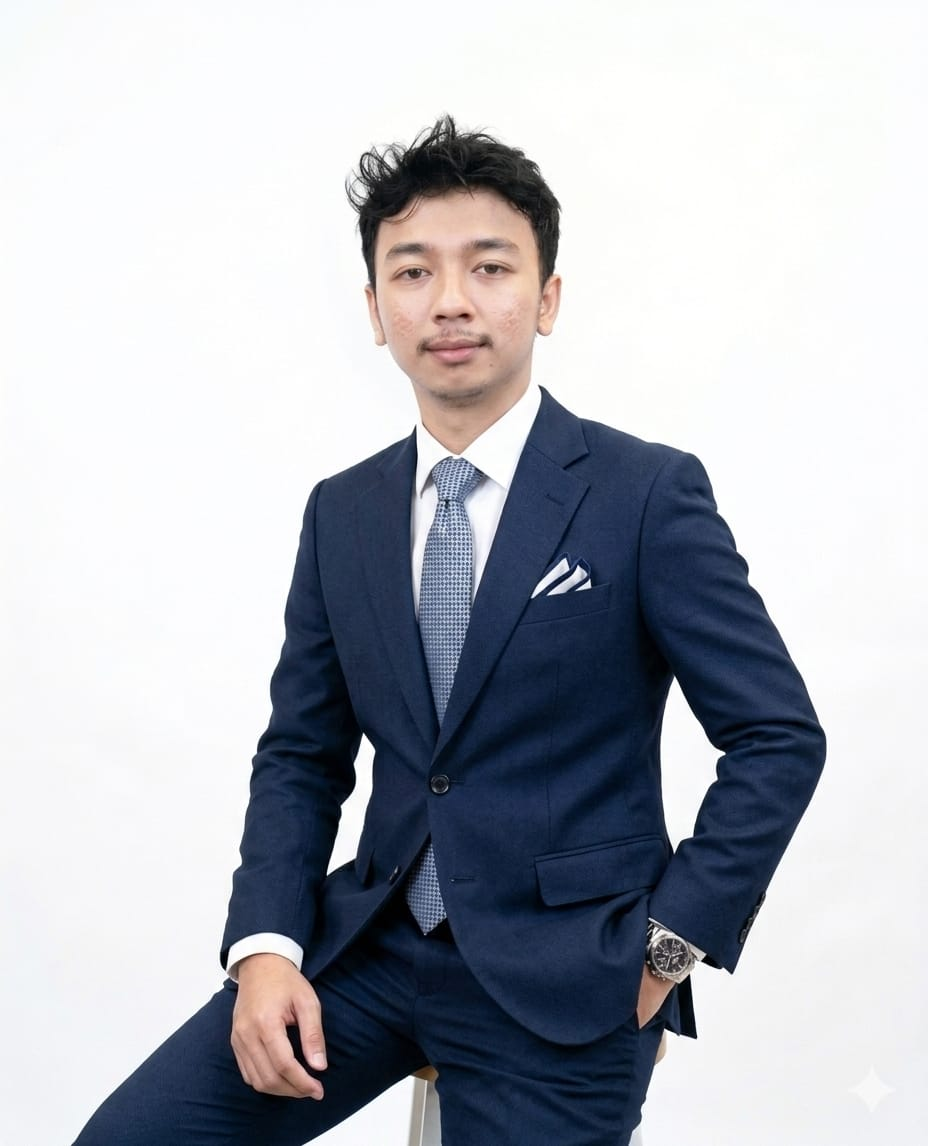
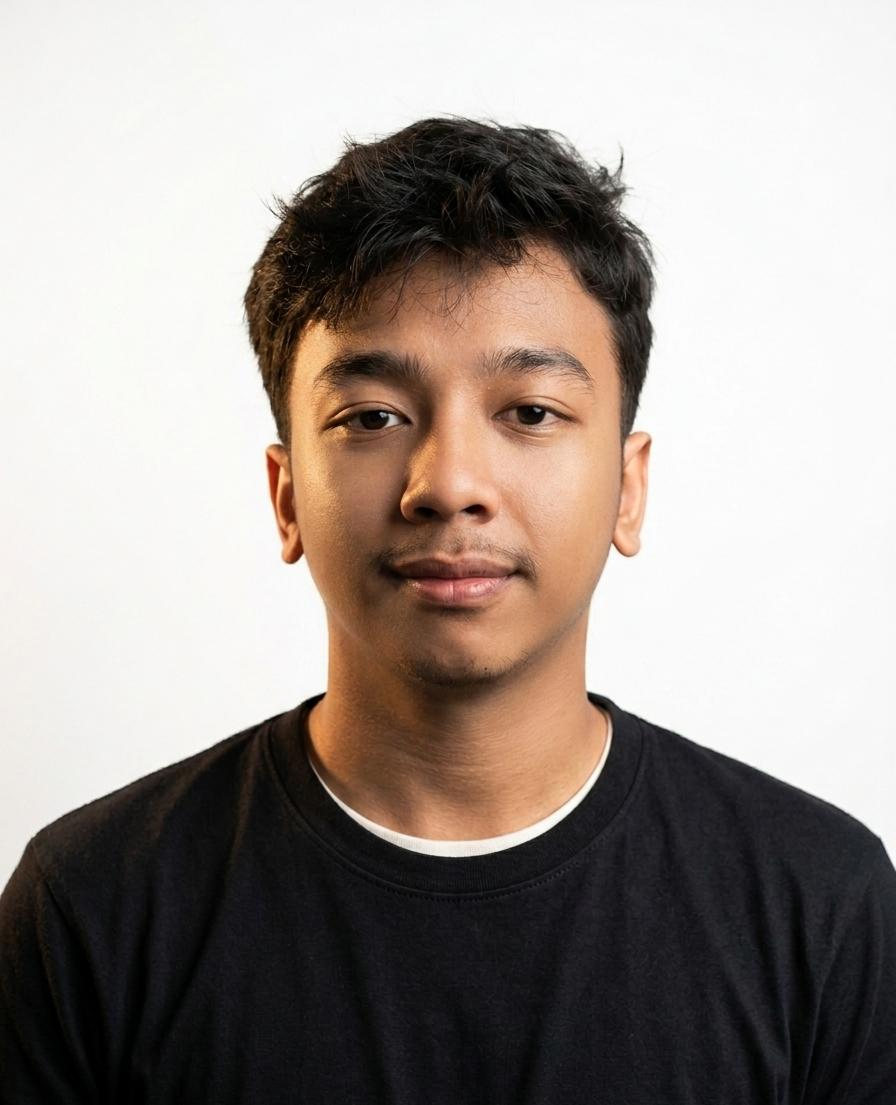
chore : update teams

diff --git a/components/ui/hero-section-4.tsx b/components/ui/hero-section-4.tsx
@@ -113,16 +113,14 @@ export function HeroSection() {
       </div>{" "}
       {/* Navigation */}
       <header
-        className={`fixed top-0 inset-x-0 z-20 transition-all duration-300 ${
-          isScrolled
-            ? "bg-background/80 backdrop-blur-md border-b border-border/50 shadow-sm"
-            : "border-b border-border/30"
-        }`}
+        className={`fixed top-0 inset-x-0 z-20 transition-all duration-300 ${isScrolled
+          ? "bg-background/80 backdrop-blur-md border-b border-border/50 shadow-sm"
+          : "border-b border-border/30"
+          }`}
       >
         <nav
-          className={`mx-auto max-w-7xl px-6 sm:px-8 lg:px-12 flex items-center justify-between transition-all duration-300 ${
-            isScrolled ? "py-3" : "py-4"
-          }`}
+          className={`mx-auto max-w-7xl px-6 sm:px-8 lg:px-12 flex items-center justify-between transition-all duration-300 ${isScrolled ? "py-3" : "py-4"
+            }`}
         >
           <motion.div
             initial={{ opacity: 0, y: -10 }}
@@ -142,9 +140,8 @@ export function HeroSection() {
                 width={180}
                 height={48}
                 priority
-                className={`w-auto transition-all duration-300 ${
-                  isScrolled ? "h-30 sm:h-30" : "h-40 sm:h-40"
-                }`}
+                className={`w-auto transition-all duration-300 ${isScrolled ? "h-30 sm:h-30" : "h-40 sm:h-40"
+                  }`}
               />
             </Link>
           </motion.div>{" "}
@@ -229,24 +226,19 @@ export function HeroSection() {
         <div className="max-w-4xl space-y-6 mb-16">
           <div className="space-y-1">
             <TextRevealLine delay={0.1}>
-              <span className="text-6xl sm:text-7xl lg:text-8xl font-light text-white tracking-tight drop-shadow-lg">
-                Clems Grafter
-              </span>
-            </TextRevealLine>
-            <TextRevealLine delay={0.3}>
-              <span className="text-6xl sm:text-7xl lg:text-8xl font-light text-white tracking-tight drop-shadow-lg">
-                Creative
+              <span className="text-5xl sm:text-6xl lg:text-7xl font-light text-white tracking-tight drop-shadow-lg">
+                Clems Grafter Creative
               </span>
             </TextRevealLine>
             <TextRevealLine delay={0.5}>
-              <span className="text-6xl sm:text-7xl lg:text-8xl font-light">
+              <span className="text-5xl sm:text-6xl lg:text-7xl font-light">
                 <span className="text-white tracking-tight drop-shadow-lg">
                   Crafting digital experiences
                 </span>
               </span>
             </TextRevealLine>
             <TextRevealLine delay={0.7}>
-              <span className="text-6xl sm:text-7xl lg:text-8xl font-light tracking-tight">
+              <span className="text-5xl sm:text-6xl lg:text-7xl font-light tracking-tight">
                 with{" "}
                 <span className="text-accent drop-shadow-[0_0_20px_rgba(0,123,223,0.5)]">
                   clarity

diff --git a/components/sections/team-section.tsx b/components/sections/team-section.tsx
@@ -22,12 +22,12 @@ const team = [
   },
   {
     name: "Ari Putra Frederick Leluly",
-    role: "Fullstack Developer",
+    role: "Fullstack Engineer",
     image: "/teams/ari.png",
   },
   {
     name: "Jeriko Ichtus Seo",
-    role: "Fullstack Developer",
+    role: "Fullstack Engineer",
     image: "/teams/jeriko.png",
   },
   {
@@ -38,7 +38,22 @@ const team = [
   {
     name: "Muhammad Maula Albi Badalawa",
     role: "Research and Development",
-    image: "/teams/albi.jpeg",
+    image: "/teams/albi.png",
+  },
+  {
+    name: "Nico Abel Laia",
+    role: "Frontend Engineer",
+    image: "/teams/nico.png",
+  },
+  {
+    name: "Raffa Danendra Pramono",
+    role: "QA Engineer",
+    image: "/teams/raffa.jpeg",
+  },
+  {
+    name: "Agusta Heryanti",
+    role: "Sales",
+    image: "/teams/anti.jpeg",
   },
 ];
 
@@ -94,7 +109,7 @@ export function TeamSection() {
                 <h3 className="text-base sm:text-lg font-medium text-foreground">
                   {member.name}
                 </h3>
-                <p className="text-sm text-muted-foreground">{member.role}</p>
+                <p className="text-sm">{member.role}</p>
               </div>
             </motion.div>
           ))}
